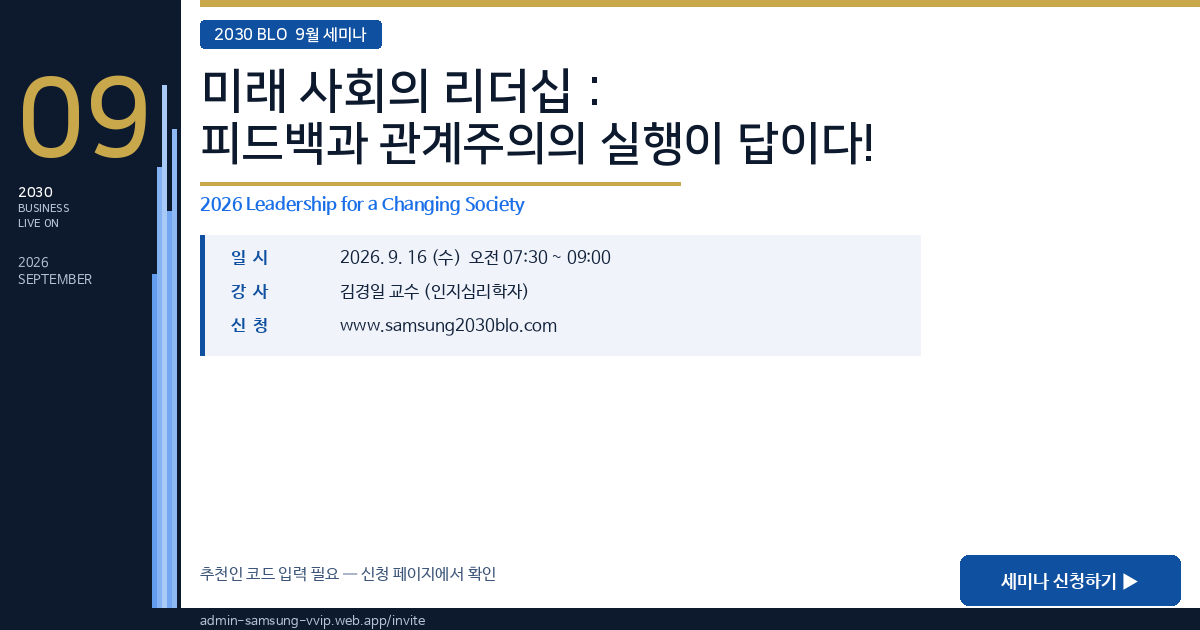
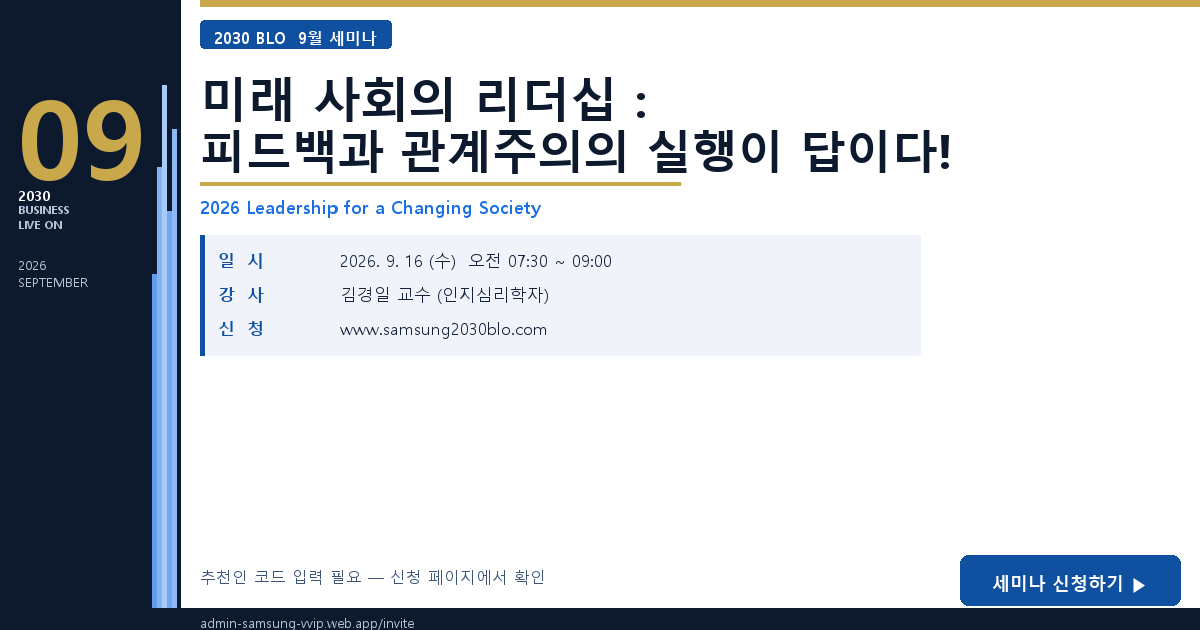
fix: OG 이미지 이모지 깨짐 + 세로형 카드 제목 안 보이던 버그 수정
- gen_og_image.py: 맑은고딕/나눔고딕 폰트에 이모지 글리프가 없어
  카톡 공유 미리보기(가로형 OG)와 세로형 카드에서 📅🎓💻📍⚠ 등이
  빈 네모(tofu)로 깨져 나오던 문제 — 해당 이모지 제거 (라벨 텍스트만으로도
  의미 전달됨, HTML 쪽은 유니코드 이모지라 문제없이 잘 보임)
- 세로형 카드: 제목 첫 줄(vtitle1)이 흰 배경 위에 흰 글씨로 그려져
  안 보이던 버그 수정 (상단 히어로 밴드 전체를 네이비로 칠하도록 변경)
- 세로형 카드: 월 이름이 긴 달(SEPTEMBER/NOVEMBER/DECEMBER 등)에서
  세로로 쌓는 라벨 텍스트가 그 아래 날짜 텍스트와 겹치던 문제 수정
  (글자수에 맞춰 줄간격 자동 축소)
- ogImageVersion 15→16 (캐시 무효화)

diff --git a/invite.html b/invite.html
@@ -7,7 +7,7 @@
 <meta property="og:title" content="세미나 신청하기 | BLO 조찬세미나">
 <meta property="og:description" content="미래 사회의 리더십 : 피드백과 관계주의의 실행이 답이다! | 9/16(수) 오전 7:30 | 김경일 교수 | 신청: www.samsung2030blo.com">
 <meta property="og:url" content="https://admin-samsung-vvip.web.app/invite?m=2026-09">
-<meta property="og:image" content="https://admin-samsung-vvip.web.app/assets/og-kakao-wide.png?v=15">
+<meta property="og:image" content="https://admin-samsung-vvip.web.app/assets/og-kakao-wide.png?v=16">
 <meta property="og:image:width" content="1024">
 <meta property="og:image:height" content="576">
 <meta name="twitter:card" content="summary_large_image">

diff --git a/index.html b/index.html
@@ -5,7 +5,7 @@
   <meta name="viewport" content="width=device-width, initial-scale=1.0">
   <meta property="og:title" content="2030 Business Live ON - 세미나 안내">
   <meta property="og:description" content="삼성생명 WM 사업부 | 프리미엄 경영 조찬 세미나">
-  <meta property="og:image" content="https://admin-samsung-vvip.web.app/assets/og-kakao-wide.png?v=15">
+  <meta property="og:image" content="https://admin-samsung-vvip.web.app/assets/og-kakao-wide.png?v=16">
   <meta property="og:image:width" content="1200">
   <meta property="og:image:height" content="630">
   <meta property="og:url" content="https://admin-samsung-vvip.web.app/">

diff --git a/scripts/gen_og_image.py b/scripts/gen_og_image.py
@@ -210,10 +210,12 @@ def make_wide_og(out_path, d):
     finfo_l = load_font(F_BOLD2, 17)
     finfo_r = load_font(F_REGULAR, 17)
 
+    # 이모지는 여기서 쓰는 한글 폰트(맑은고딕/나눔고딕)에 글리프가 없어
+    # 빈 네모(tofu)로 깨져 나오므로 이미지에는 넣지 않는다 (HTML 쪽은 문제없음)
     info_items = [
-        ("📅  일  시", info_date),
-        ("🎓  강  사", info_speaker),
-        ("💻  신  청", "www.samsung2030blo.com"),
+        ("일  시", info_date),
+        ("강  사", info_speaker),
+        ("신  청", "www.samsung2030blo.com"),
     ]
     for i, (label, value) in enumerate(info_items):
         y = 248 + i * 34
@@ -309,7 +311,9 @@ def make_vertical_card(out_path, d):
 
     draw.rectangle([0, 0, W, 5], fill=GOLD)
     SIDE = 120
-    draw.rectangle([0, 0, SIDE, 380], fill=NAVY)
+    # 상단 히어로 밴드 전체를 네이비로 칠한다 (전에는 SIDE 칼럼만 칠해져 있어서,
+    # 오른쪽의 흰색 제목 텍스트(vtitle1)가 흰 배경 위에 흰 글씨로 그려져 안 보이던 버그가 있었음)
+    draw.rectangle([0, 0, W, 380], fill=NAVY)
 
     for i, (hr, c) in enumerate([(0.5,40),(0.7,70),(0.9,110),(0.75,70),(0.55,45),(0.85,85)]):
         bh = int(380 * hr)
@@ -322,8 +326,15 @@ def make_vertical_card(out_path, d):
 
     draw.text((10, 70), month_num, font=fmn, fill=GOLD)
 
+    # 세로로 한 글자씩 쌓는 월 라벨(SEPTEMBER, NOVEMBER 등 긴 이름) — 글자수에 맞춰
+    # 줄간격을 줄여서, 아래쪽 sidebar_date(연/월/일) 텍스트와 겹치지 않게 한다.
+    label_start_y = 178
+    label_bottom_limit = 295  # 이 아래로는 sidebar_date 영역이라 침범 금지
+    label_line_h = 18
+    if len(month_label) > 0:
+        label_line_h = min(18, max(11, (label_bottom_limit - label_start_y) // len(month_label)))
     for ci, ch in enumerate(month_label):
-        draw.text((SIDE//2 - 6, 178 + ci*18), ch, font=fb2, fill=MID_GRAY)
+        draw.text((SIDE//2 - 6, label_start_y + ci*label_line_h), ch, font=fb2, fill=MID_GRAY)
 
     RX = SIDE + 20
 
@@ -353,12 +364,12 @@ def make_vertical_card(out_path, d):
     draw.rectangle([24, y, W-24, y+218], fill=WHITE)
     draw.rectangle([24, y, W-24, y+4], fill=BLUE)
     card_items = [
-        ("📅 일  시", card_date),
-        ("",          card_time),
-        ("🎓 강  사", speaker1),
-        ("",          speaker2),
-        ("💻 신  청", "www.samsung2030blo.com"),
-        ("📍 장  소", "삼성금융캠퍼스 B2F 비전홀"),
+        ("일  시", card_date),
+        ("",        card_time),
+        ("강  사", speaker1),
+        ("",        speaker2),
+        ("신  청", "www.samsung2030blo.com"),
+        ("장  소", "삼성금융캠퍼스 B2F 비전홀"),
     ]
     cy = y + 16
     for label, value in card_items:
@@ -395,7 +406,7 @@ def make_vertical_card(out_path, d):
     # 추천인 코드 — 보안상 이미지에는 코드값을 담지 않고, 신청 페이지 안내로 대체
     draw_rounded_rect(draw, [24, y, W-24, y+84], 10, (240,246,255))
     draw.rectangle([24, y, 28, y+84], fill=BLUE)
-    draw.text((40, y+8),  "⚠  온라인 신청 시 반드시 추천인 코드 입력!", font=fcode_t, fill=BLUE)
+    draw.text((40, y+8),  "온라인 신청 시 반드시 추천인 코드 입력!", font=fcode_t, fill=BLUE)
     code_note = "추천인 코드는 신청 페이지에서 확인하세요"
     cb  = draw.textbbox((0,0), code_note, font=fcode_v2)
     cw  = cb[2]-cb[0]
@@ -428,10 +439,10 @@ def make_vertical_card(out_path, d):
 
     # 오프라인 문의
     y += 14
-    draw.text((24, y),    "오프라인 조찬세미나 문의",           font=foff_b, fill=TEXT_MID)
-    draw.text((24, y+22), "📞  010-5137-2327  (박재박 팀장)",  font=foff,   fill=TEXT_DARK)
-    draw.text((24, y+42), "💬  카카오톡 오픈채팅 문의 가능",    font=foff,   fill=TEXT_DARK)
-    draw.text((24, y+62), f"📅  오프라인 마감: {og_deadline}",  font=foff,   fill=(180,50,50))
+    draw.text((24, y),    "오프라인 조찬세미나 문의",         font=foff_b, fill=TEXT_MID)
+    draw.text((24, y+22), "010-5137-2327  (박재박 팀장)",    font=foff,   fill=TEXT_DARK)
+    draw.text((24, y+42), "카카오톡 오픈채팅 문의 가능",      font=foff,   fill=TEXT_DARK)
+    draw.text((24, y+62), f"오프라인 마감: {og_deadline}",    font=foff,   fill=(180,50,50))
 
     draw.rectangle([0, H-72, W, H], fill=NAVY)
     draw.text((24, H-60), "2030 Business Live ON",              font=ffoot_t, fill=WHITE)
